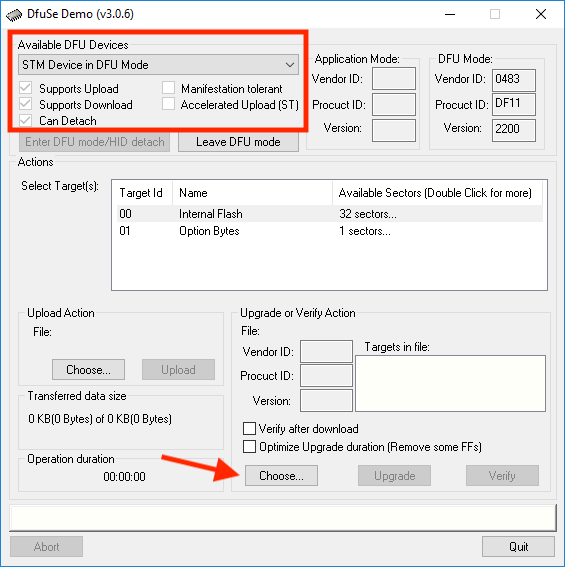
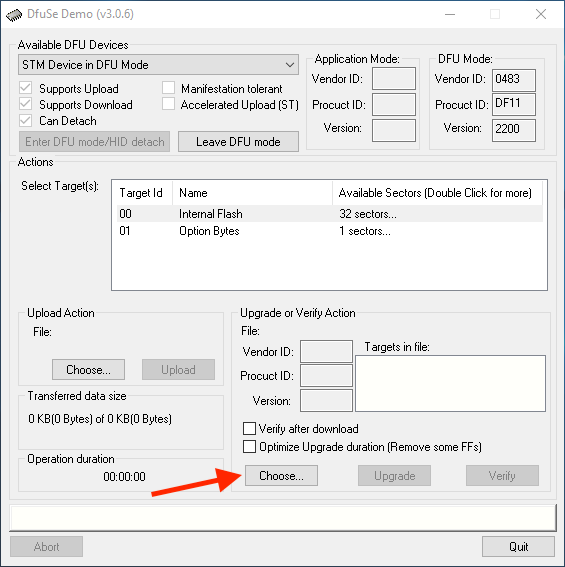
updated instruction

diff --git a/advanced_usage.md b/advanced_usage.md
@@ -74,7 +74,7 @@ For RX, a press on the button types out some debug messages. Make sure you open 
 
 You can update Daytripper's firmware via USB, for bug fixes and and/or new features. 
 
-To do this, download and install the [STM32 DfuSe tool](resources/en.stsw-stm32080_stm32_DfuSe.zip) from this repo. You can download it from [the official website too](https://www.st.com/en/development-tools/stsw-stm32080.html) but it requires creating an account.
+To do this, download and install the [STM32 DfuSe tool](resources/en.stsw-stm32080_stm32_DfuSe.zip) from this repo. You can download it from [the official website](https://www.st.com/en/development-tools/stsw-stm32080.html) too, but it requires creating an account.
 
 First, locate the user button on the board:
 
@@ -86,13 +86,15 @@ To update firmware:
 
 * **Press and hold down the user button** while plugging it into a computer
 
-If it all goes well, the status LED should stay off.
+If it all goes well, the blue LED should stay off.
 
 Now launch the `DfuSeDemo` software:
 
 ![Alt text](resources/photos/dfu_start.png)
 
 In the `Available DUF Devices` section at top left corner, you should see a `STM Device in DFU Mode`.
+
+![Alt text](resources/photos/dfu_available.png)
 
 Press the `Choose...` button and select a firmware file in `.dfu` format. Make sure it's the correct file!
 
